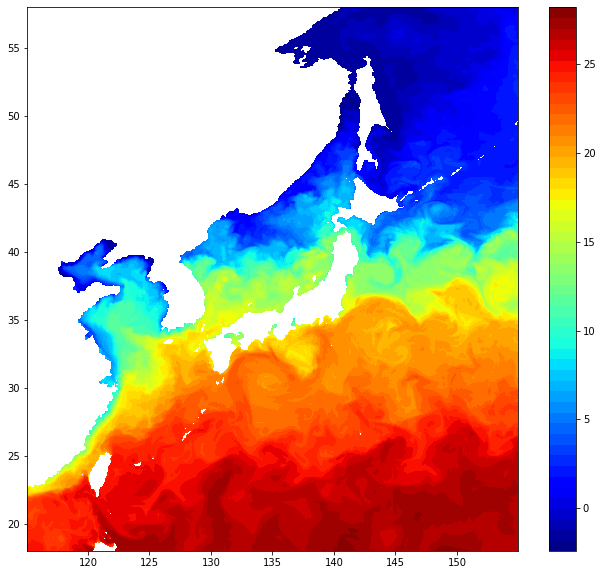
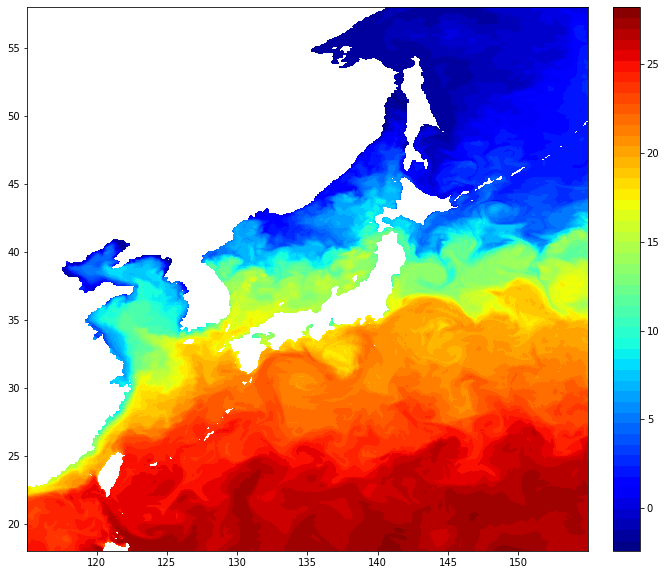
Modify first post

diff --git a/_posts/2020-09-05-netcdf.md b/_posts/2020-09-05-netcdf.md
@@ -3,15 +3,15 @@ layout: post
 title:  "NetCDF4 데이터 가시화"
 date:   2020-09-05
 author: Chase Yang
-categories: "해양데이터"
+categories: "Marine_Data_Analysis"
 ---
 
 NetCDF4 데이터를 읽어서 다음과 같이 가시화해보겠다.
 ![ts_uv_final]({{ site.baseurl }}/assets/images/ts_uv_final.png)
 
 사용 데이터는 Hycom 재분석 자료이며, 관련 링크는 다음과 같다.
-- Hycom 자료 설명 : [Hycom Homepage](https://www.hycom.org/)
-- Hycom 자료 FTP : [Hycom FTP](ftp://ftp.hycom.org/datasets/GLBv0.08/expt_93.0/data/hindcasts/2020/)
+- [Hycom Homepage](https://www.hycom.org/)
+- [Hycom FTP](ftp://ftp.hycom.org/datasets/GLBv0.08/expt_93.0/data/hindcasts/2020/)
 
 파일의 마지막에 ts3z라 적혀 있으면 수온 및 염분 데이터, uv3z는 유속 UV 데이터이다. 그리고 ssh는 수위이다.
 
@@ -40,7 +40,7 @@ conda install -c anaconda netcdf4
 ## NetCDF4 파일 읽기
 
 NetCDF4 모듈의 설명서는 다음의 링크에 있다.
-- NetCDF4 API documentation : [NetCDF4 API documentation](https://unidata.github.io/netcdf4-python/netCDF4/index.html)
+- [NetCDF4 API documentation](https://unidata.github.io/netcdf4-python/netCDF4/index.html)
 
 위의 링크를 참조하면 NetCDF4 파일을 다음과 같이 읽거나 쓸 수 있다고 한다.
 ```python
@@ -179,9 +179,9 @@ m.fillcontinents(color='lightgray')
 그런데 러시아쪽에 강이나 호수가 보이는데, 이게 꽤나 거슬린다.
 어떻게 하면 지울 수 있을까 하다 다음과 같은 글을 보았다.
 
-> If you want to stick with Basemap, get a shapefile which doesnt contain the rivers. Natural Earth for example has a nice 'Land' shapefile in the physical section (download 'scale rank' data and uncompress). See [Get Land Data](http://www.naturalearthdata.com/downloads/10m-physical-vectors/)
+> If you want to stick with Basemap, get a shapefile which doesnt contain the rivers. Natural Earth for example has a nice 'Land' shapefile in the physical section (download 'scale rank' data and uncompress). See [http://www.naturalearthdata.com/downloads/10m-physical-vectors/](http://www.naturalearthdata.com/downloads/10m-physical-vectors/)
 > 
-> (링크 [Stack Overflow](https://stackoverflow.com/questions/14280312/world-map-without-rivers-with-matplotlib-basemap))
+> (링크 [https://stackoverflow.com/questions/14280312/world-map-without-rivers-with-matplotlib-basemap](https://stackoverflow.com/questions/14280312/world-map-without-rivers-with-matplotlib-basemap))
 
 요약하자면, Basemap은 쓰고 싶은데 강은 보기 싫으면 위의 링크로 들어가 'Land' shapefile을 다운받으라고 한다. 위의 링크에 들어가면 Land가 보이는데, 위의 글 처럼 **scale rank**를 다운받지 말고 **land**를 다운받도록 하자. 다운받았으면 코드 위치에 넣고, 다음과 같은 코드를 추가해준다.
 
@@ -202,12 +202,6 @@ ax.add_collection(coll)
 
 위의 코드를 한 곳에 모아두면 다음과 같은 코드와 결과물이 나온다.
 ```python
-from mpl_toolkits.basemap import Basemap
-from netCDF4 import Dataset
-import matplotlib.pyplot as plt
-import matplotlib.image as mpimg
-import numpy as np
-
 nc_data = Dataset("hycom_glbv_930_2019010112_t000_ts3z_r.nc", "r", format="NETCDF4")
 nc_data2 = Dataset("hycom_glbv_930_2019010112_t000_uv3z_r.nc", "r", format="NETCDF4")
  
@@ -230,8 +224,9 @@ fig, ax = plt.subplots(1, 1, figsize=(11,10))
 fig.patch.set_facecolor('w')
 
 # 수온 Contourf
-water_temp_plot = ax.contourf(lon, lat, water_temp, levels=50, cmap='jet')
-fig.colorbar(water_temp_plot, ticks=list(range(0,31,5)))
+water_temp_plot = ax.contourf(lon, lat, temp, levels=50, cmap='jet')
+fig.colorbar(water_temp_plot, ticks=list(range(0,31,5)),
+            fraction=0.046, pad=0.04)
 
 # 유속 Quiver
 step = 5
@@ -255,13 +250,17 @@ for line in shp_info[4]._paths:
     paths.append(Path(line.vertices, codes=line.codes))
 coll = PathCollection(paths, linewidths=0, facecolors='lightgrey', zorder=100)
 ax.add_collection(coll)
-####
 
+# 제목, 라벨, 틱 등 설정
 ax.set_xlim(120,150)
 ax.set_ylim(20,50)
 ax.set_xticks(range(120,151,5))
 ax.set_yticks(range(20,51,5))
+ax.set_xlabel('Longitude', fontsize=15)
+ax.set_ylabel('Latitude', fontsize=15)
+ax.set_title('Water Temperature and UV (2019.01.01 12:00)', fontsize=20)
 
+plt.tight_layout()
 plt.show()
 ```
 ![ts_uv_no_interp]({{ site.baseurl }}/assets/images/ts_uv_no_interp.png)
